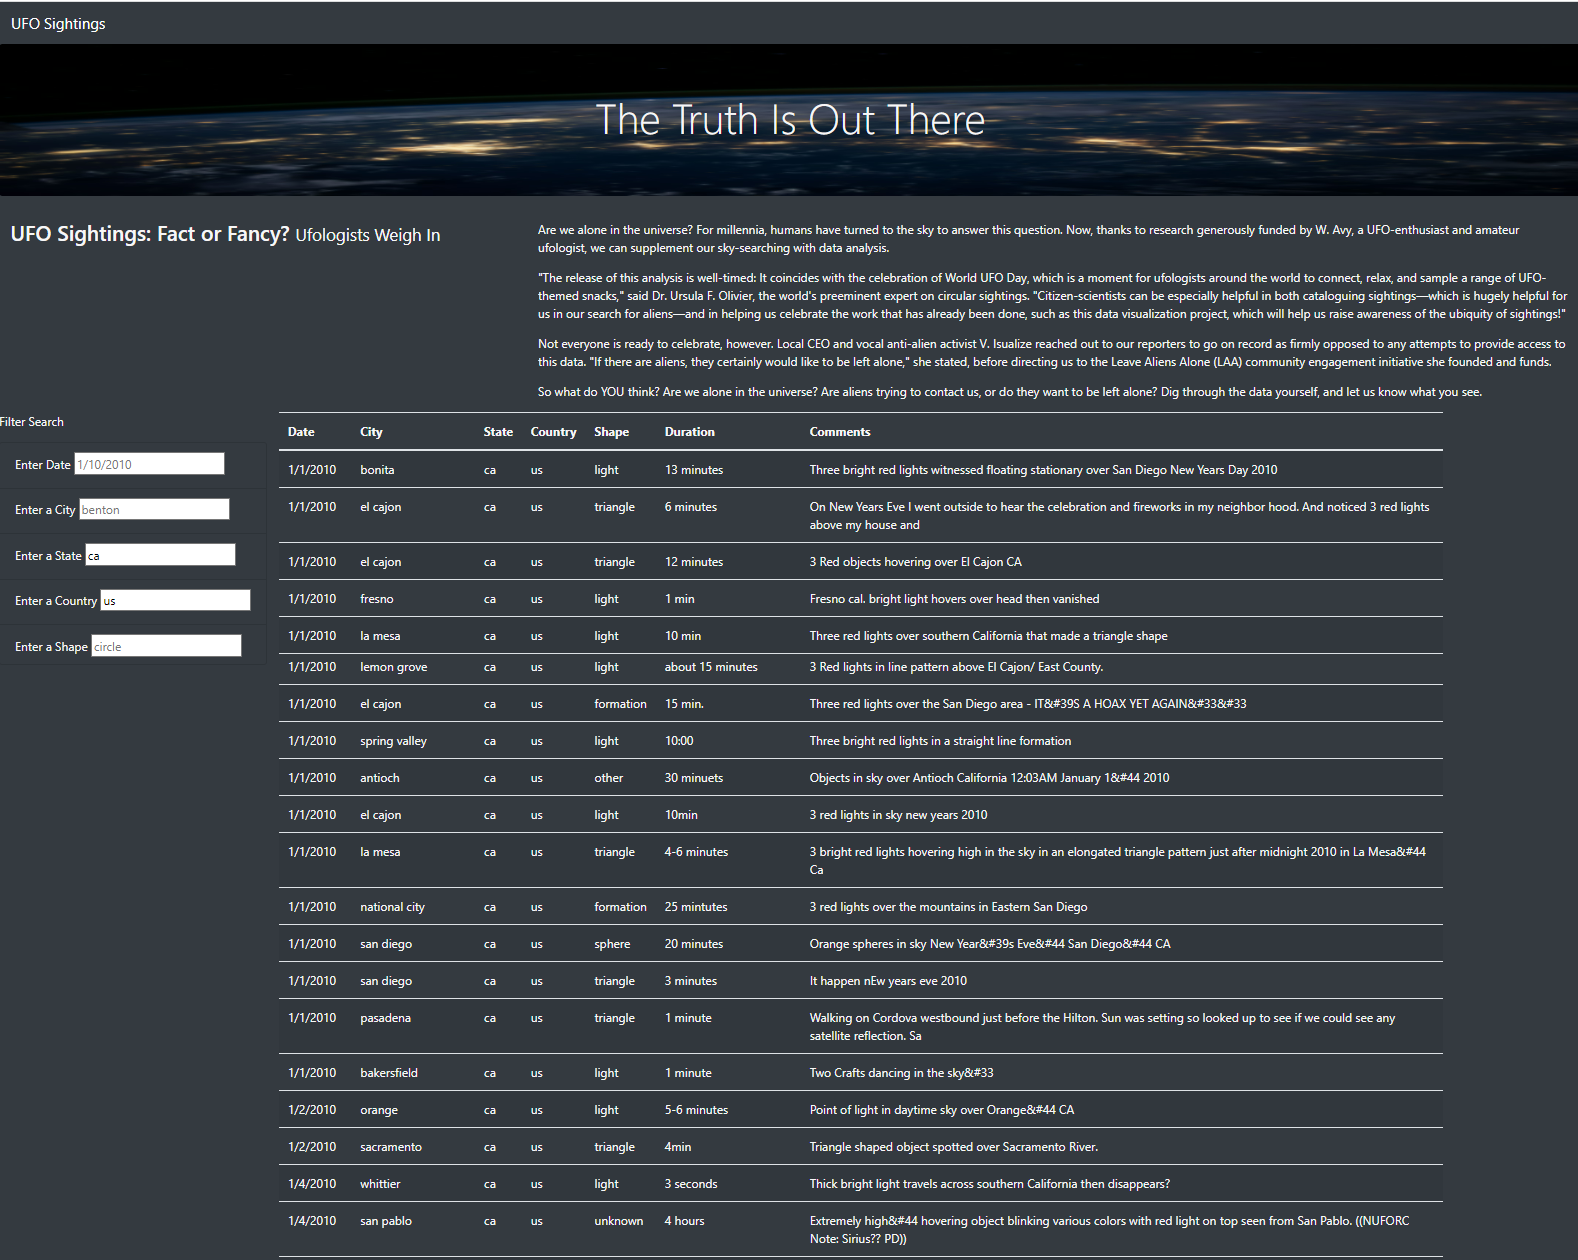
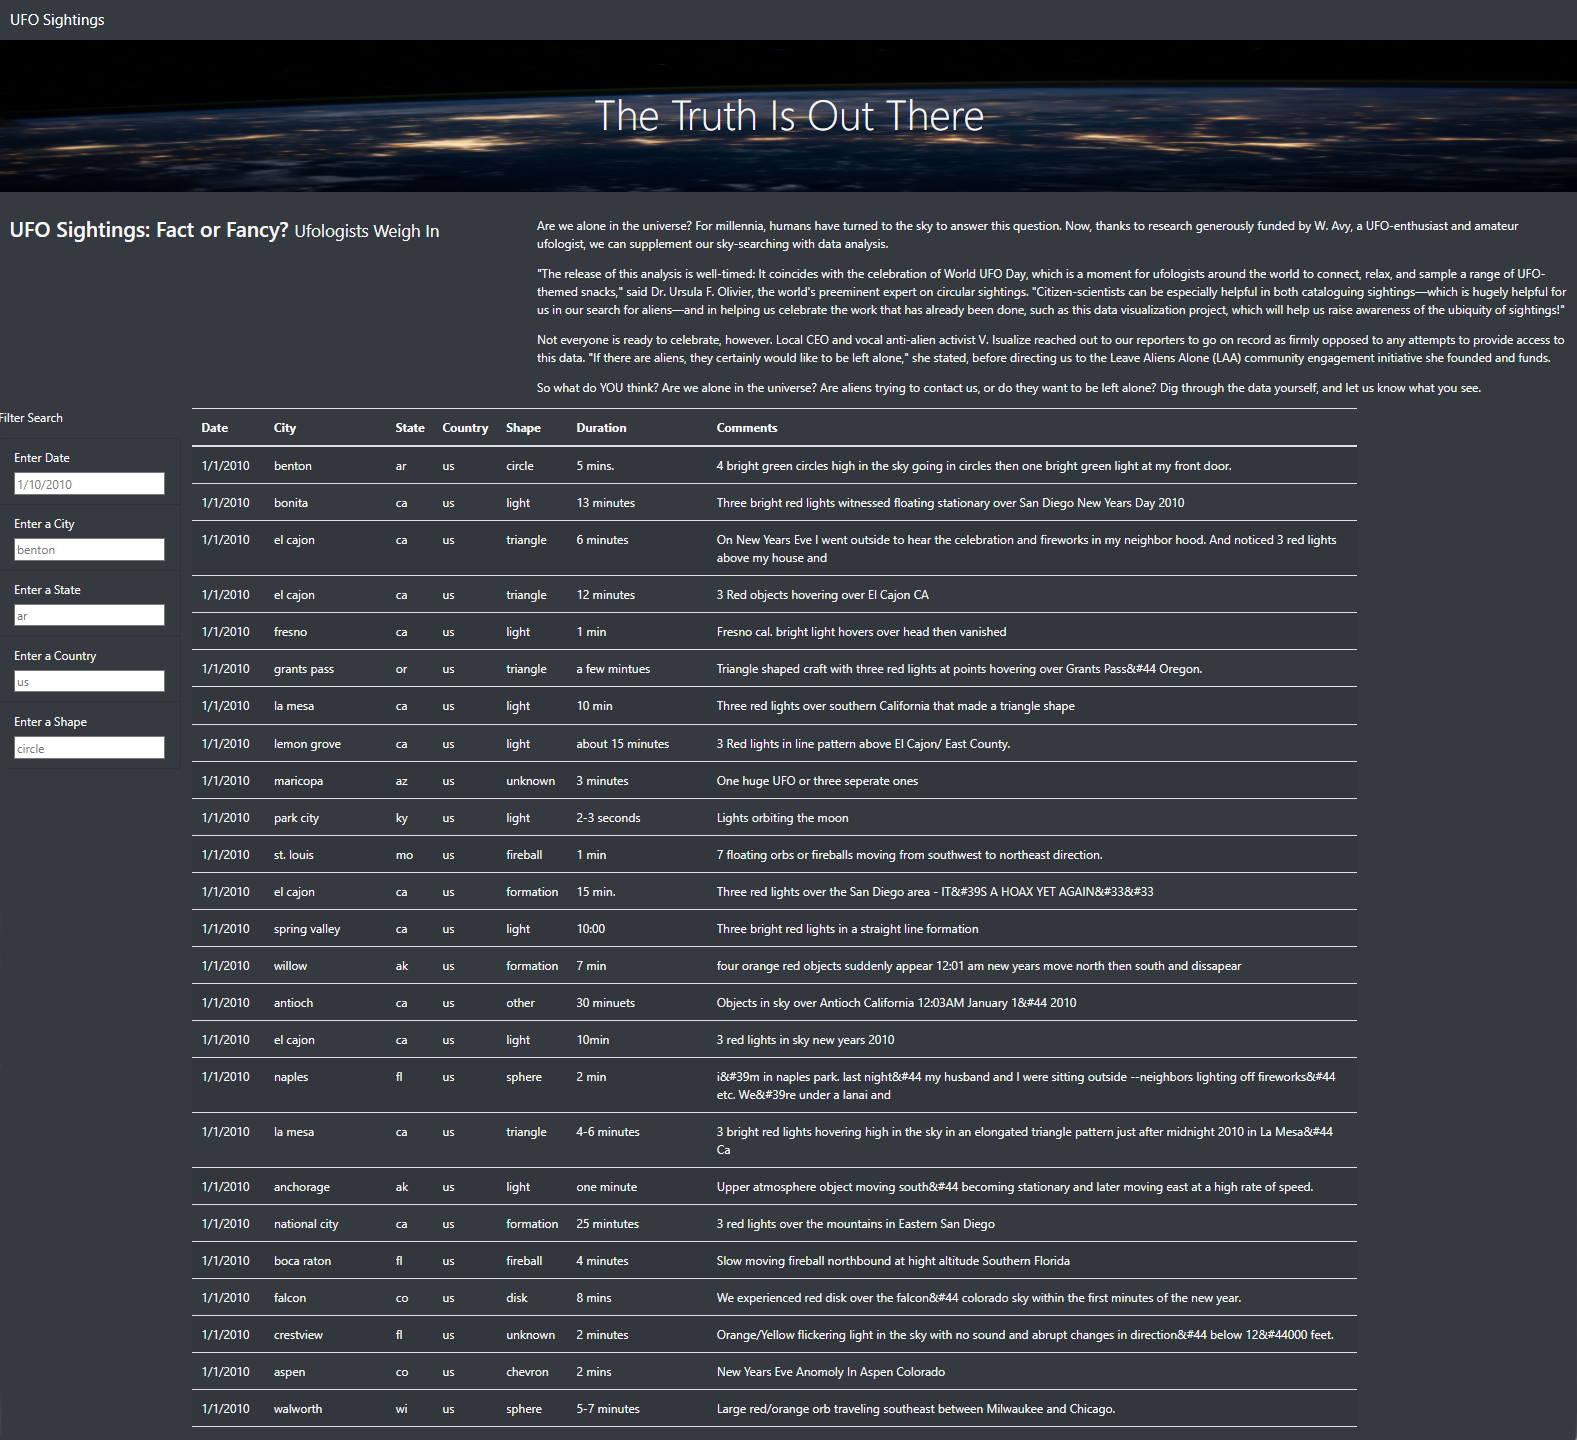
Challenge 11

Changed region(s): [[0.0, 0.0, 1.0, 1.0]]

diff --git a/index.html b/index.html
@@ -61,23 +61,23 @@
                         <p>Filter Search</p>
                         <ul class="list-group bg-dark">
                             <li class="list-group-item bg-dark">
-                                <label for="date">Enter Date</label>
+                                <label for="date">Enter Date</label><br/>
                                 <input type="text" placeholder="1/10/2010" id="datetime" />
                             </li>
                             <li class="list-group-item bg-dark">
-                                <label for="city">Enter a City</label>
+                                <label for="city">Enter a City</label><br/>
                                 <input type="text" placeholder="benton" id="city" />
                             </li>
                             <li class="list-group-item bg-dark">
-                                <label for="state">Enter a State</label>
+                                <label for="state">Enter a State</label><br/>
                                 <input type="text" placeholder="ar" id="state" />
                             </li>
                             <li class="list-group-item bg-dark">
-                                <label for="country">Enter a Country</label>
+                                <label for="country">Enter a Country</label><br/>
                                 <input type="text" placeholder="us" id="country" />
                             </li>
                             <li class="list-group-item bg-dark">
-                                <label for="shape">Enter a Shape</label>
+                                <label for="shape">Enter a Shape</label><br/>
                                 <input type="text" placeholder="circle" id="shape" />
                             </li>
                         </ul>

diff --git a/static/js/app.js b/static/js/app.js
@@ -54,47 +54,21 @@ function updateFilters() {
   
     // 8. Set the filtered data to the tableData.
     let filteredData = tableData;
+    function loopFilter(row) {
+      return row[key] == value;
+    }
   
     // 9. Loop through all of the filters and keep any data that
     // matches the filter values
 
-    let date = d3.select("#datetime").property("value");
-    let city = d3.select("#city").property("value");
-    let state = d3.select("#state").property("value");
-    let country = d3.select("#country").property("value");
-    let shape = d3.select("#shape").property("value");
-  
-    if (date) {
-      filteredData = filteredData.filter(row => row.datetime === date);
-    };
-    if (city) {
-      filteredData = filteredData.filter(row => row.city === city);
-    };
-    if (state) {
-      filteredData = filteredData.filter(row => row.state === state);
-    };
-    if (country) {
-      filteredData = filteredData.filter(row => row.country === country);
-    };
-    if (shape) {
-      filteredData = filteredData.filter(row => row.shape === shape);
-    };
-    console.log(filters);
+    for (key in filters) {
+      var value = filters[key];
+      filteredData = filteredData.filter(loopFilter);
+    }
  
-    // Try looping
- 
-    // data.forEach(function(weatherReport) {
-    //   console.log(weatherReport);
-    //   let row = tbody.append("tr");
-    //   Object.entries(weatherReport).forEach(function([key, value]) {
-    //     console.log(key, value);
-    //     });
-    //   });
-
-
     // 10. Finally, rebuild the table using the filtered data
     buildTable(filteredData);
-  
+   
   }
   
   // 2. Attach an event to listen for changes to each filter
@@ -102,4 +76,5 @@ function updateFilters() {
   
   // Build the table when the page loads
   buildTable(tableData);
+ 
 

diff --git a/README.md b/README.md
@@ -17,4 +17,4 @@ If a user wishes to limit the information based on a desired date, location, or 
 ## Summary
 While this website is useful to perform a basic search, it has its limitations. The table itself is based on a static dataset. Therefore, if the user would like more recent data, they will need to search elsewhere. In addition, the filters will not allow searching for sightings in more than one specified city at a time. For example, the user would not be able to able to search for sightings both in Fresno, CA and St. Louis, Missouri with a single search.
 
-Future enhancements to the website would be welcome. One enhancement would be to update the data on the website through an automated API call directly to the source. This would allow up-to-date data to be presented on the website at all times. Another possible enhancement would be to allow more advanced filtering to allow the selection of multiple locations, or perhaps a range of dates. Yet another possible enhancement would be to allow the user to select individual records as they browse the table, and then allow the user to compile their selected rows in a new table.
+Future enhancements to the website would be welcome. One enhancement would be to update the data on the website through an automated API call directly to the source. This would allow up-to-date data to be presented on the website at all times. Another possible enhancement would be to allow more advanced filtering to allow the selection of multiple locations, or perhaps a range of dates. Yet another possible enhancement would be to allow the user to select individual records as they browse the table, and then allow the user to compile their selected rows in a new table. A third enhancement would be to add a "clear filters" button, which would allow each of the filter criteria to be cleared and the full table presented once again.
